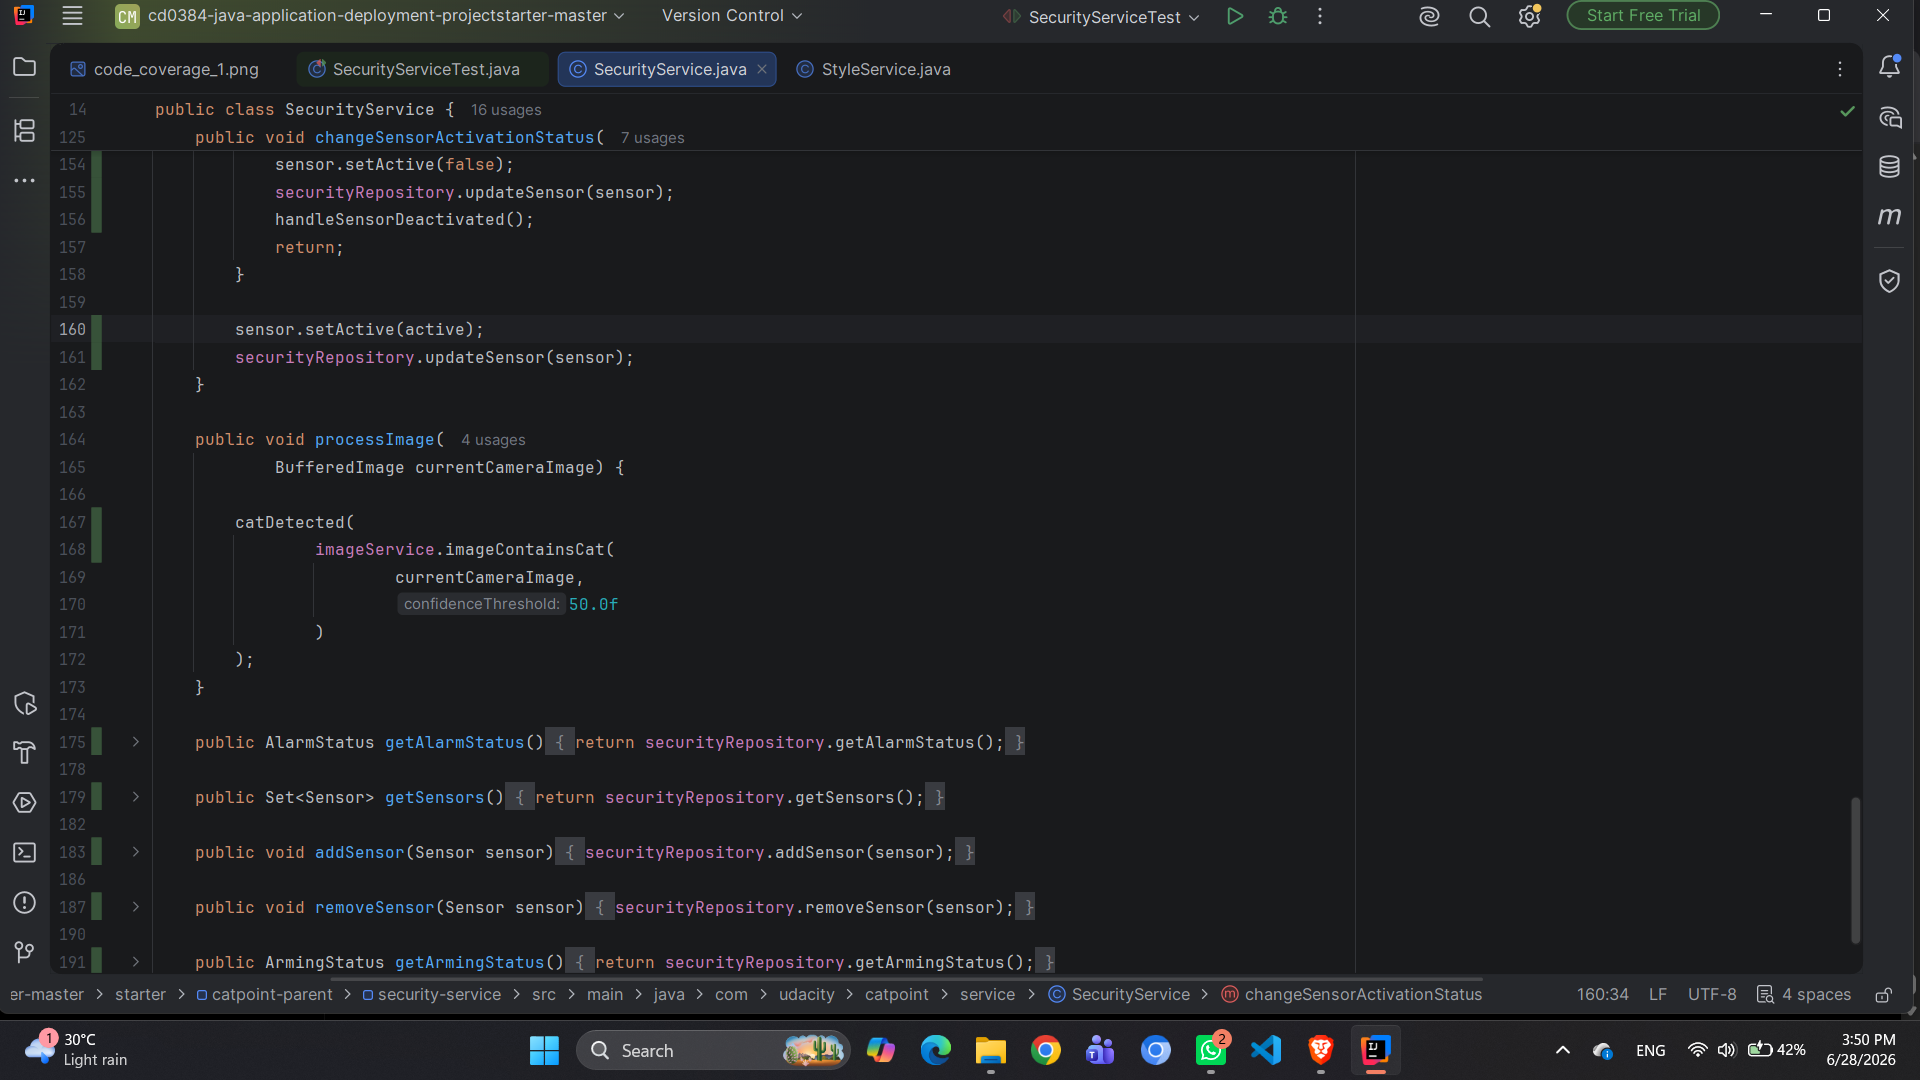
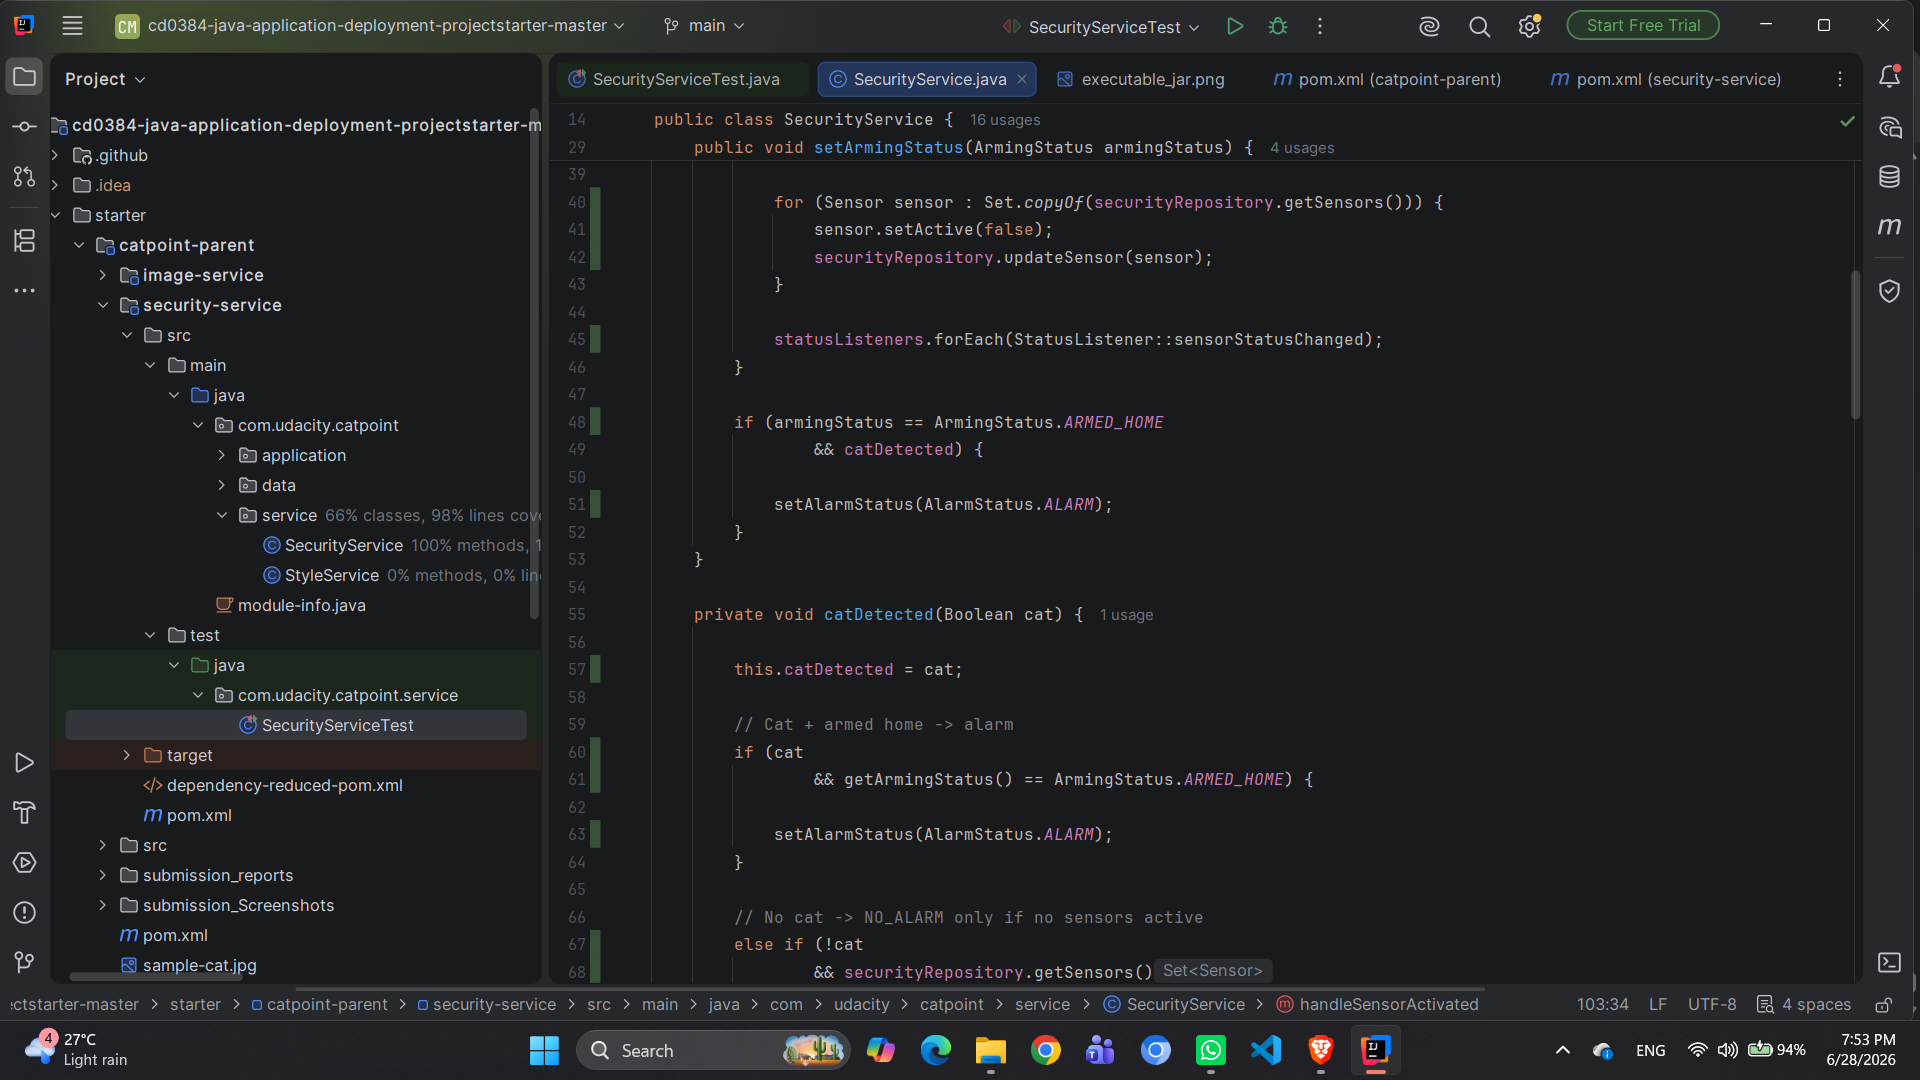
Update test, fix spotbug report and update test naming conventions

diff --git a/starter/catpoint-parent/security-service/src/test/java/com/udacity/catpoint/service/SecurityServiceTest.java b/starter/catpoint-parent/security-service/src/test/java/com/udacity/catpoint/service/SecurityServiceTest.java
@@ -1,10 +1,12 @@
 package com.udacity.catpoint.service;
 
+import com.udacity.catpoint.application.StatusListener;
 import com.udacity.catpoint.data.AlarmStatus;
 import com.udacity.catpoint.data.ArmingStatus;
 import com.udacity.catpoint.data.SecurityRepository;
 import com.udacity.catpoint.data.Sensor;
 import com.udacity.catpoint.image.ImageService;
+
 import org.junit.jupiter.api.BeforeEach;
 import org.junit.jupiter.api.Test;
 import org.junit.jupiter.api.extension.ExtendWith;
@@ -12,15 +14,13 @@ import org.junit.jupiter.params.ParameterizedTest;
 import org.junit.jupiter.params.provider.EnumSource;
 import org.mockito.Mock;
 import org.mockito.junit.jupiter.MockitoExtension;
-import com.udacity.catpoint.application.StatusListener;
 
-import static org.mockito.Mockito.*;
 import java.util.Set;
 
+import static org.junit.jupiter.api.Assertions.assertFalse;
 import static org.mockito.ArgumentMatchers.any;
 import static org.mockito.ArgumentMatchers.anyFloat;
 import static org.mockito.Mockito.*;
-import static org.junit.jupiter.api.Assertions.assertFalse;
 
 @ExtendWith(MockitoExtension.class)
 class SecurityServiceTest {
@@ -35,39 +35,60 @@ class SecurityServiceTest {
 
     @BeforeEach
     void setUp() {
-        securityService =
-                new SecurityService(
-                        securityRepository,
-                        imageService
-                );
+        securityService = new SecurityService(securityRepository, imageService);
+    }
+
+    // ---------------- SENSOR ACTIVATION ----------------
+
+    @Test
+    void activateSensor_whenArmedHomeAndNoAlarm_setsPendingAlarm() {
+
+        Sensor sensor = new Sensor("Door", null);
+
+        when(securityRepository.getArmingStatus()).thenReturn(ArmingStatus.ARMED_HOME);
+        when(securityRepository.getAlarmStatus()).thenReturn(AlarmStatus.NO_ALARM);
+
+        securityService.changeSensorActivationStatus(sensor, true);
+
+        verify(securityRepository).setAlarmStatus(AlarmStatus.PENDING_ALARM);
     }
 
     @Test
-    void setSensorActiveWhenArmedChangesStateToPendingAlarm() {
+    void activateSensor_whenArmedAwayAndNoAlarm_setsPendingAlarm() {
 
-        Sensor sensor = new Sensor("Front Door", null);
+        Sensor sensor = new Sensor("Door", null);
+
+        when(securityRepository.getArmingStatus()).thenReturn(ArmingStatus.ARMED_AWAY);
+        when(securityRepository.getAlarmStatus()).thenReturn(AlarmStatus.NO_ALARM);
+
+        securityService.changeSensorActivationStatus(sensor, true);
+
+        verify(securityRepository).setAlarmStatus(AlarmStatus.PENDING_ALARM);
+    }
+
+    @Test
+    void activateSensor_whenAlreadyPendingAlarm_setsAlarm() {
+
+        Sensor sensor = new Sensor("Door", null);
         sensor.setActive(false);
+
+        when(securityRepository.getAlarmStatus())
+                .thenReturn(AlarmStatus.PENDING_ALARM);
 
         when(securityRepository.getArmingStatus())
                 .thenReturn(ArmingStatus.ARMED_HOME);
-
-        when(securityRepository.getAlarmStatus())
-                .thenReturn(AlarmStatus.NO_ALARM);
 
         securityService.changeSensorActivationStatus(sensor, true);
 
         verify(securityRepository)
-                .setAlarmStatus(AlarmStatus.PENDING_ALARM);
+                .setAlarmStatus(AlarmStatus.ALARM);
     }
 
     @Test
-    void setSensorActiveWhenAlreadyPendingChangesStateToAlarm() {
+    void activateSensor_whenPendingAlarmAndSensorReactivated_setsAlarm() {
 
-        Sensor sensor = new Sensor("Front Door", null);
-        sensor.setActive(false);
-
-        when(securityRepository.getArmingStatus())
-                .thenReturn(ArmingStatus.ARMED_HOME);
+        Sensor sensor = new Sensor("Door", null);
+        sensor.setActive(true);
 
         when(securityRepository.getAlarmStatus())
                 .thenReturn(AlarmStatus.PENDING_ALARM);
@@ -79,157 +100,137 @@ class SecurityServiceTest {
     }
 
     @Test
-    void setSensorInactiveWhenPendingAlarmChangesStateToNoAlarm() {
+    void deactivateSensor_whenPendingAlarmAndAllSensorsInactive_setsNoAlarm() {
 
-        Sensor sensor = new Sensor("Front Door", null);
+        Sensor sensor = new Sensor("Door", null);
         sensor.setActive(true);
 
-        when(securityRepository.getAlarmStatus())
-                .thenReturn(AlarmStatus.PENDING_ALARM);
-
-        when(securityRepository.getSensors())
-                .thenReturn(Set.of(sensor));
+        when(securityRepository.getAlarmStatus()).thenReturn(AlarmStatus.PENDING_ALARM);
+        when(securityRepository.getSensors()).thenReturn(Set.of(sensor));
 
         securityService.changeSensorActivationStatus(sensor, false);
 
-        verify(securityRepository)
-                .setAlarmStatus(AlarmStatus.NO_ALARM);
+        verify(securityRepository).setAlarmStatus(AlarmStatus.NO_ALARM);
+        verify(securityRepository).updateSensor(sensor);
     }
 
     @Test
-    void sensorStateChangeWhenAlarmActiveDoesNotChangeAlarmState() {
+    void changeSensor_whenAlarmActive_onlyUpdatesSensor_noStateChange() {
 
-        Sensor sensor = new Sensor("Front Door", null);
-        sensor.setActive(true);
+        Sensor sensor = new Sensor("Door", null);
 
-        when(securityRepository.getAlarmStatus())
-                .thenReturn(AlarmStatus.ALARM);
+        when(securityRepository.getAlarmStatus()).thenReturn(AlarmStatus.ALARM);
 
         securityService.changeSensorActivationStatus(sensor, false);
 
-        verify(securityRepository, never())
-                .setAlarmStatus(any());
-    }
-
-    @Test
-    void activeSensorStillActiveWhenPendingChangesToAlarm() {
-
-        Sensor sensor = new Sensor("Front Door", null);
-        sensor.setActive(true);
-
-        when(securityRepository.getAlarmStatus())
-                .thenReturn(AlarmStatus.PENDING_ALARM);
-
-        securityService.changeSensorActivationStatus(sensor, true);
-
-        verify(securityRepository)
-                .setAlarmStatus(AlarmStatus.ALARM);
+        verify(securityRepository).updateSensor(sensor);
+        verify(securityRepository, never()).setAlarmStatus(any());
     }
 
     @ParameterizedTest
     @EnumSource(AlarmStatus.class)
-    void inactiveSensorStillInactiveDoesNotChangeAlarmState(
-            AlarmStatus alarmStatus) {
+    void deactivateInactiveSensor_whenAnyAlarmStatus_doesNotChangeState(AlarmStatus status) {
 
-        Sensor sensor = new Sensor("Front Door", null);
-        sensor.setActive(false);
+        Sensor sensor = new Sensor("Door", null);
 
-        when(securityRepository.getAlarmStatus())
-                .thenReturn(alarmStatus);
+        when(securityRepository.getAlarmStatus()).thenReturn(status);
 
         securityService.changeSensorActivationStatus(sensor, false);
 
-        verify(securityRepository, never())
-                .setAlarmStatus(any());
+        verify(securityRepository, never()).setAlarmStatus(any());
     }
 
+    // ---------------- IMAGE PROCESSING ----------------
+
     @Test
-    void catDetectedWhileArmedHomeChangesToAlarm() {
+    void detectCat_whenArmedHome_setsAlarm() {
 
-        when(securityRepository.getArmingStatus())
-                .thenReturn(ArmingStatus.ARMED_HOME);
-
-        when(imageService.imageContainsCat(any(), anyFloat()))
-                .thenReturn(true);
+        when(securityRepository.getArmingStatus()).thenReturn(ArmingStatus.ARMED_HOME);
+        when(imageService.imageContainsCat(any(), anyFloat())).thenReturn(true);
 
         securityService.processImage(null);
 
-        verify(securityRepository)
-                .setAlarmStatus(AlarmStatus.ALARM);
+        verify(securityRepository).setAlarmStatus(AlarmStatus.ALARM);
     }
 
     @Test
-    void noCatDetectedChangesToNoAlarmWhenNoSensorsActive() {
+    void detectNoCat_whenNoSensorsActive_setsNoAlarm() {
 
-        when(imageService.imageContainsCat(any(), anyFloat()))
-                .thenReturn(false);
-
-        when(securityRepository.getSensors())
-                .thenReturn(Set.of());
+        when(securityRepository.getSensors()).thenReturn(Set.of());
+        when(imageService.imageContainsCat(any(), anyFloat())).thenReturn(false);
 
         securityService.processImage(null);
 
-        verify(securityRepository)
-                .setAlarmStatus(AlarmStatus.NO_ALARM);
+        verify(securityRepository).setAlarmStatus(AlarmStatus.NO_ALARM);
     }
 
     @Test
-    void disarmingSystemSetsNoAlarm() {
+    void processImage_whenDisarmed_doesNotChangeAlarmState() {
+
+        when(securityRepository.getArmingStatus()).thenReturn(ArmingStatus.DISARMED);
+        when(imageService.imageContainsCat(any(), anyFloat())).thenReturn(true);
+
+        securityService.processImage(null);
+
+        verify(securityRepository, never()).setAlarmStatus(any());
+    }
+
+    // ---------------- ARMING ----------------
+
+    @Test
+    void setArmingStatus_whenDisarmed_setsNoAlarm() {
 
         securityService.setArmingStatus(ArmingStatus.DISARMED);
 
-        verify(securityRepository)
-                .setAlarmStatus(AlarmStatus.NO_ALARM);
+        verify(securityRepository).setAlarmStatus(AlarmStatus.NO_ALARM);
     }
 
     @Test
-    void armingSystemResetsAllSensorsToInactive() {
+    void setArmingStatus_whenArmedHome_resetsAllSensorsToInactive() {
 
-        Sensor sensor1 = new Sensor("Door", null);
-        Sensor sensor2 = new Sensor("Window", null);
+        Sensor s1 = new Sensor("Door", null);
+        Sensor s2 = new Sensor("Window", null);
 
-        sensor1.setActive(true);
-        sensor2.setActive(true);
+        s1.setActive(true);
+        s2.setActive(true);
 
-        when(securityRepository.getSensors())
-                .thenReturn(Set.of(sensor1, sensor2));
+        when(securityRepository.getSensors()).thenReturn(Set.of(s1, s2));
 
         securityService.setArmingStatus(ArmingStatus.ARMED_HOME);
 
-        assertFalse(sensor1.getActive());
-        assertFalse(sensor2.getActive());
+        assertFalse(s1.getActive());
+        assertFalse(s2.getActive());
+
+        verify(securityRepository).updateSensor(s1);
+        verify(securityRepository).updateSensor(s2);
     }
 
     @Test
-    void catAlreadyDetectedThenArmingHomeChangesToAlarm() {
+    void setArmingStatus_whenCatPreviouslyDetected_setsAlarm() {
 
-        when(imageService.imageContainsCat(any(), anyFloat()))
-                .thenReturn(true);
+        when(imageService.imageContainsCat(any(), anyFloat())).thenReturn(true);
 
         securityService.processImage(null);
+        securityService.setArmingStatus(ArmingStatus.ARMED_HOME);
 
-        securityService.setArmingStatus(
-                ArmingStatus.ARMED_HOME
-        );
-
-        verify(securityRepository)
-                .setAlarmStatus(AlarmStatus.ALARM);
+        verify(securityRepository).setAlarmStatus(AlarmStatus.ALARM);
     }
- //extra test added
+
+    // ---------------- LISTENERS ----------------
+
     @Test
-    void addStatusListenerRegistersListener() {
+    void addListener_whenAlarmSet_notifiesAllListeners() {
 
         StatusListener listener = mock(StatusListener.class);
 
         securityService.addStatusListener(listener);
-
         securityService.setAlarmStatus(AlarmStatus.ALARM);
 
         verify(listener).notify(AlarmStatus.ALARM);
     }
 
     @Test
-    void removeStatusListenerStopsNotifications() {
+    void removeListener_whenRemoved_doesNotReceiveNotifications() {
 
         StatusListener listener = mock(StatusListener.class);
 
@@ -242,10 +243,26 @@ class SecurityServiceTest {
     }
 
     @Test
-    void getAlarmStatusReturnsRepositoryValue() {
+    void multipleListeners_whenAlarmSet_allReceiveNotification() {
 
-        when(securityRepository.getAlarmStatus())
-                .thenReturn(AlarmStatus.ALARM);
+        StatusListener l1 = mock(StatusListener.class);
+        StatusListener l2 = mock(StatusListener.class);
+
+        securityService.addStatusListener(l1);
+        securityService.addStatusListener(l2);
+
+        securityService.setAlarmStatus(AlarmStatus.ALARM);
+
+        verify(l1).notify(AlarmStatus.ALARM);
+        verify(l2).notify(AlarmStatus.ALARM);
+    }
+
+    // ---------------- DELEGATION ----------------
+
+    @Test
+    void getAlarmStatus_delegatesToRepository() {
+
+        when(securityRepository.getAlarmStatus()).thenReturn(AlarmStatus.ALARM);
 
         securityService.getAlarmStatus();
 
@@ -253,10 +270,9 @@ class SecurityServiceTest {
     }
 
     @Test
-    void getSensorsReturnsRepositorySensors() {
+    void getSensors_delegatesToRepository() {
 
-        when(securityRepository.getSensors())
-                .thenReturn(Set.of());
+        when(securityRepository.getSensors()).thenReturn(Set.of());
 
         securityService.getSensors();
 
@@ -264,7 +280,7 @@ class SecurityServiceTest {
     }
 
     @Test
-    void addSensorDelegatesToRepository() {
+    void addSensor_delegatesToRepository() {
 
         Sensor sensor = new Sensor("Door", null);
 
@@ -274,7 +290,7 @@ class SecurityServiceTest {
     }
 
     @Test
-    void removeSensorDelegatesToRepository() {
+    void removeSensor_delegatesToRepository() {
 
         Sensor sensor = new Sensor("Door", null);
 